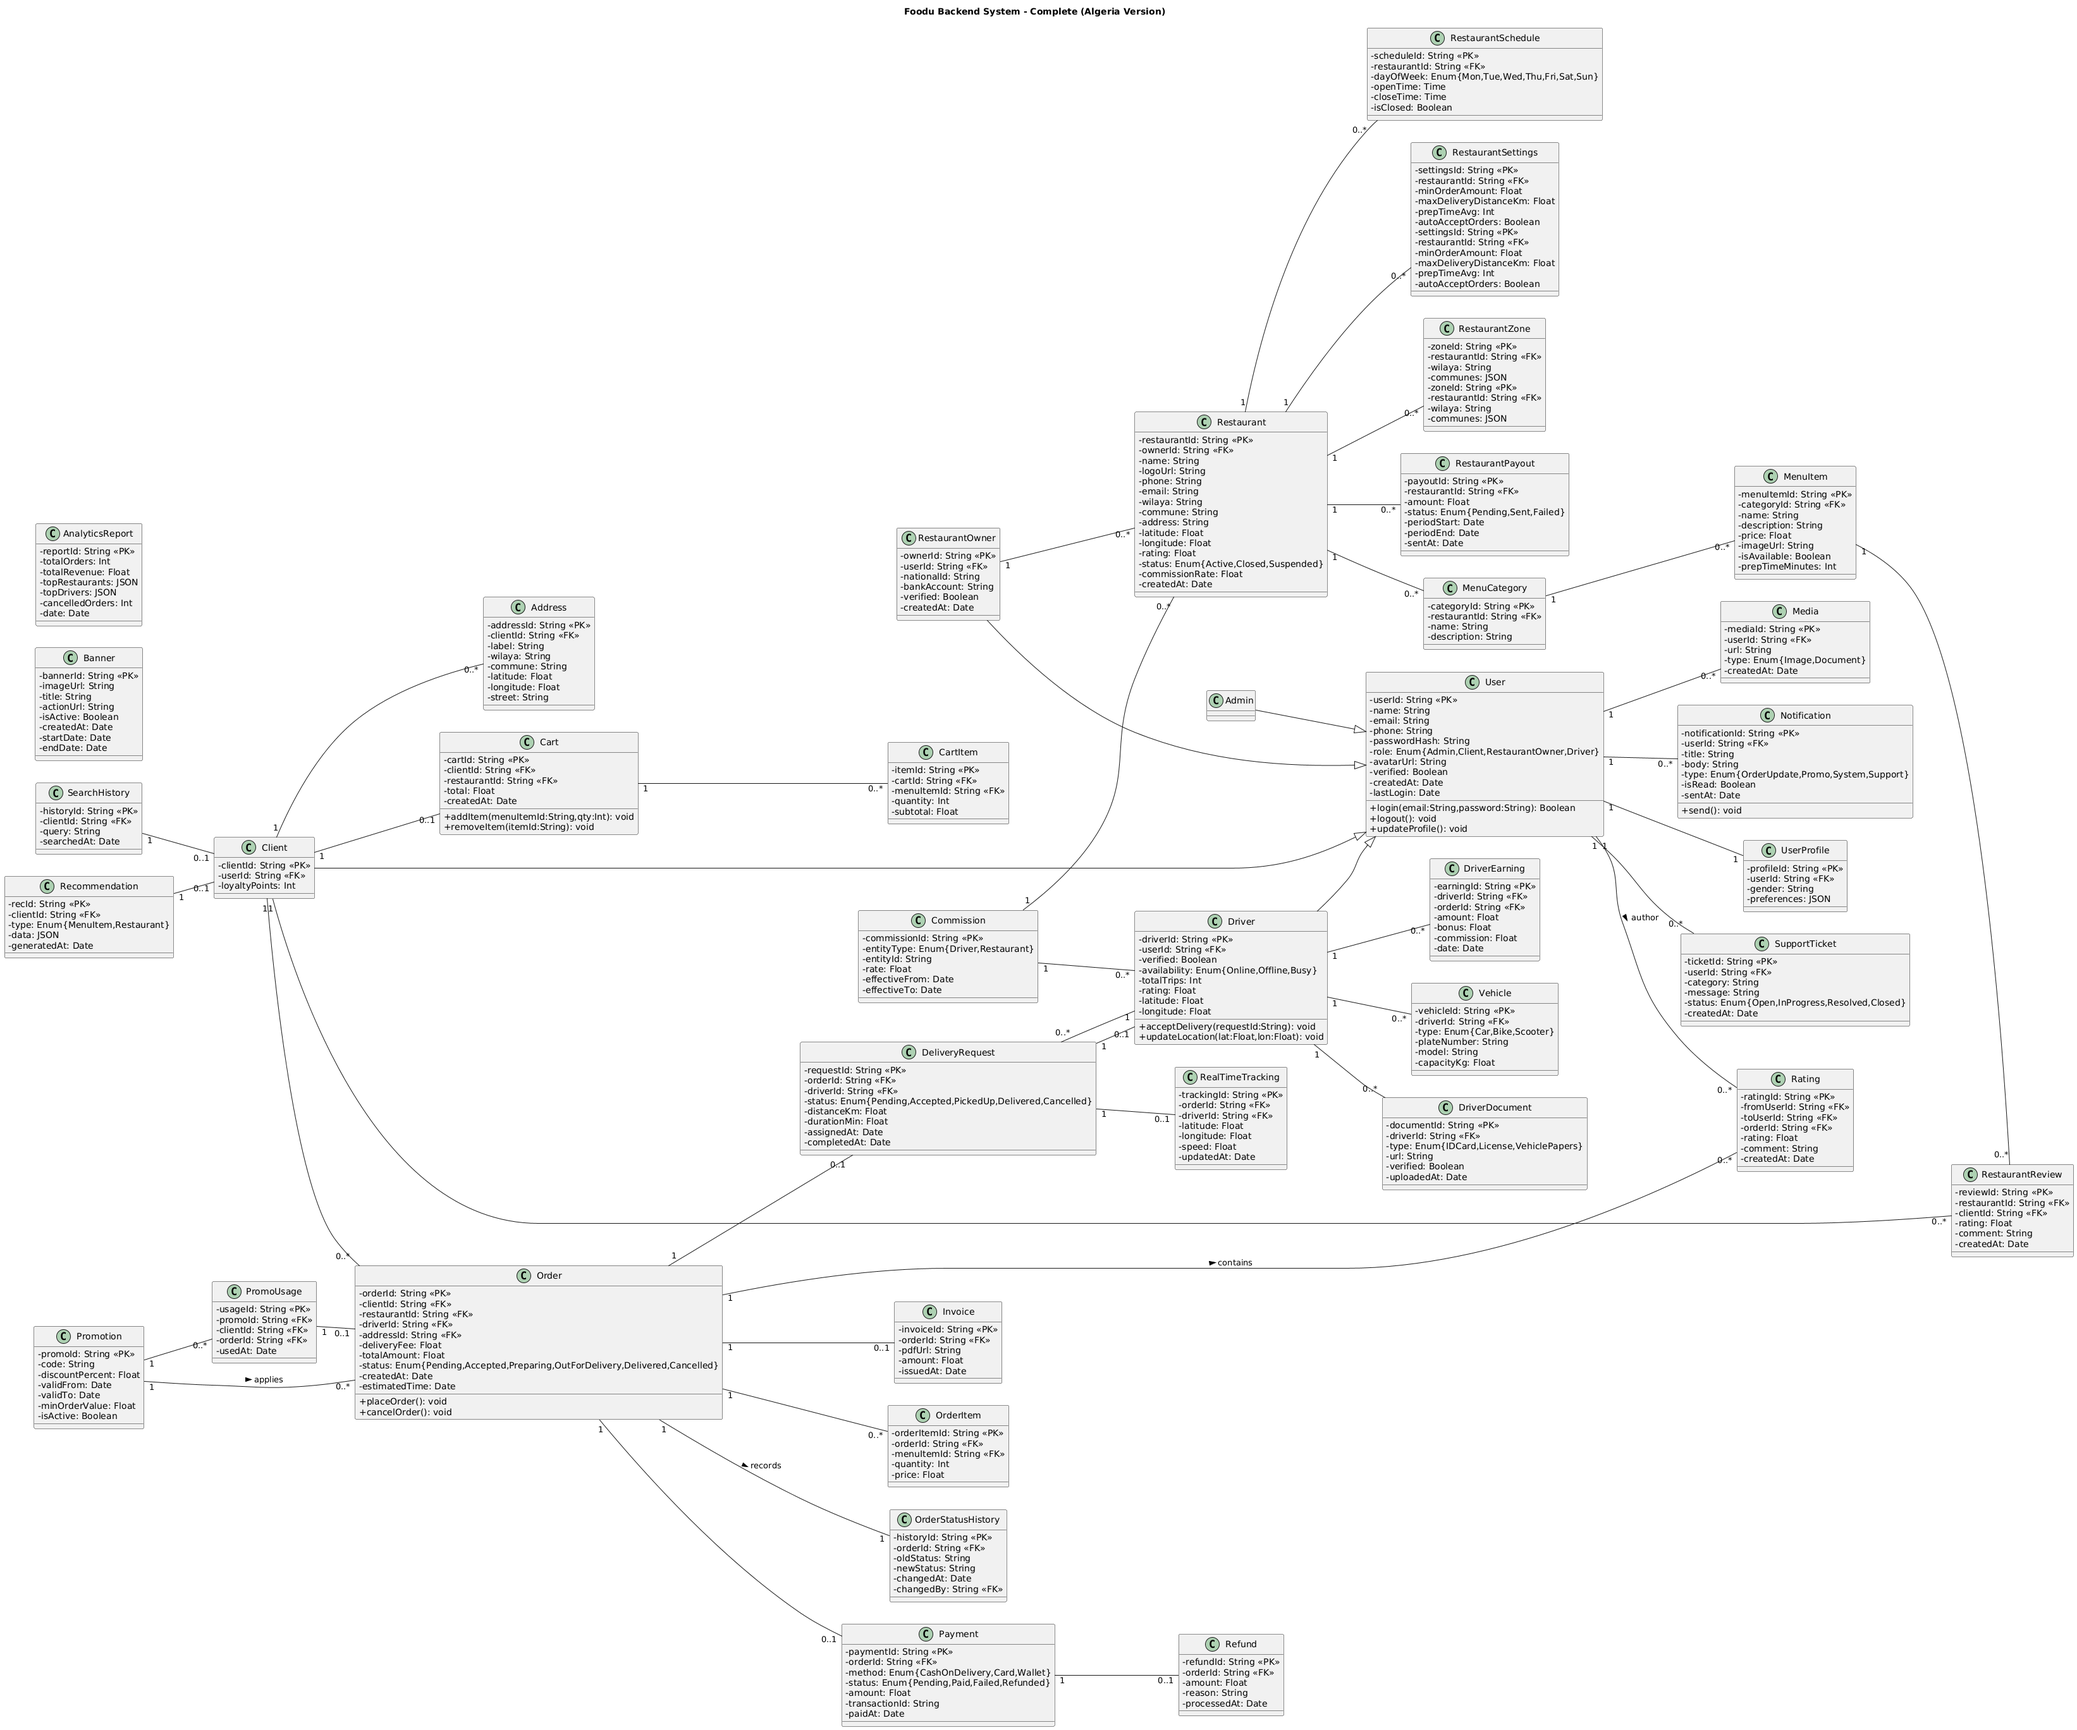
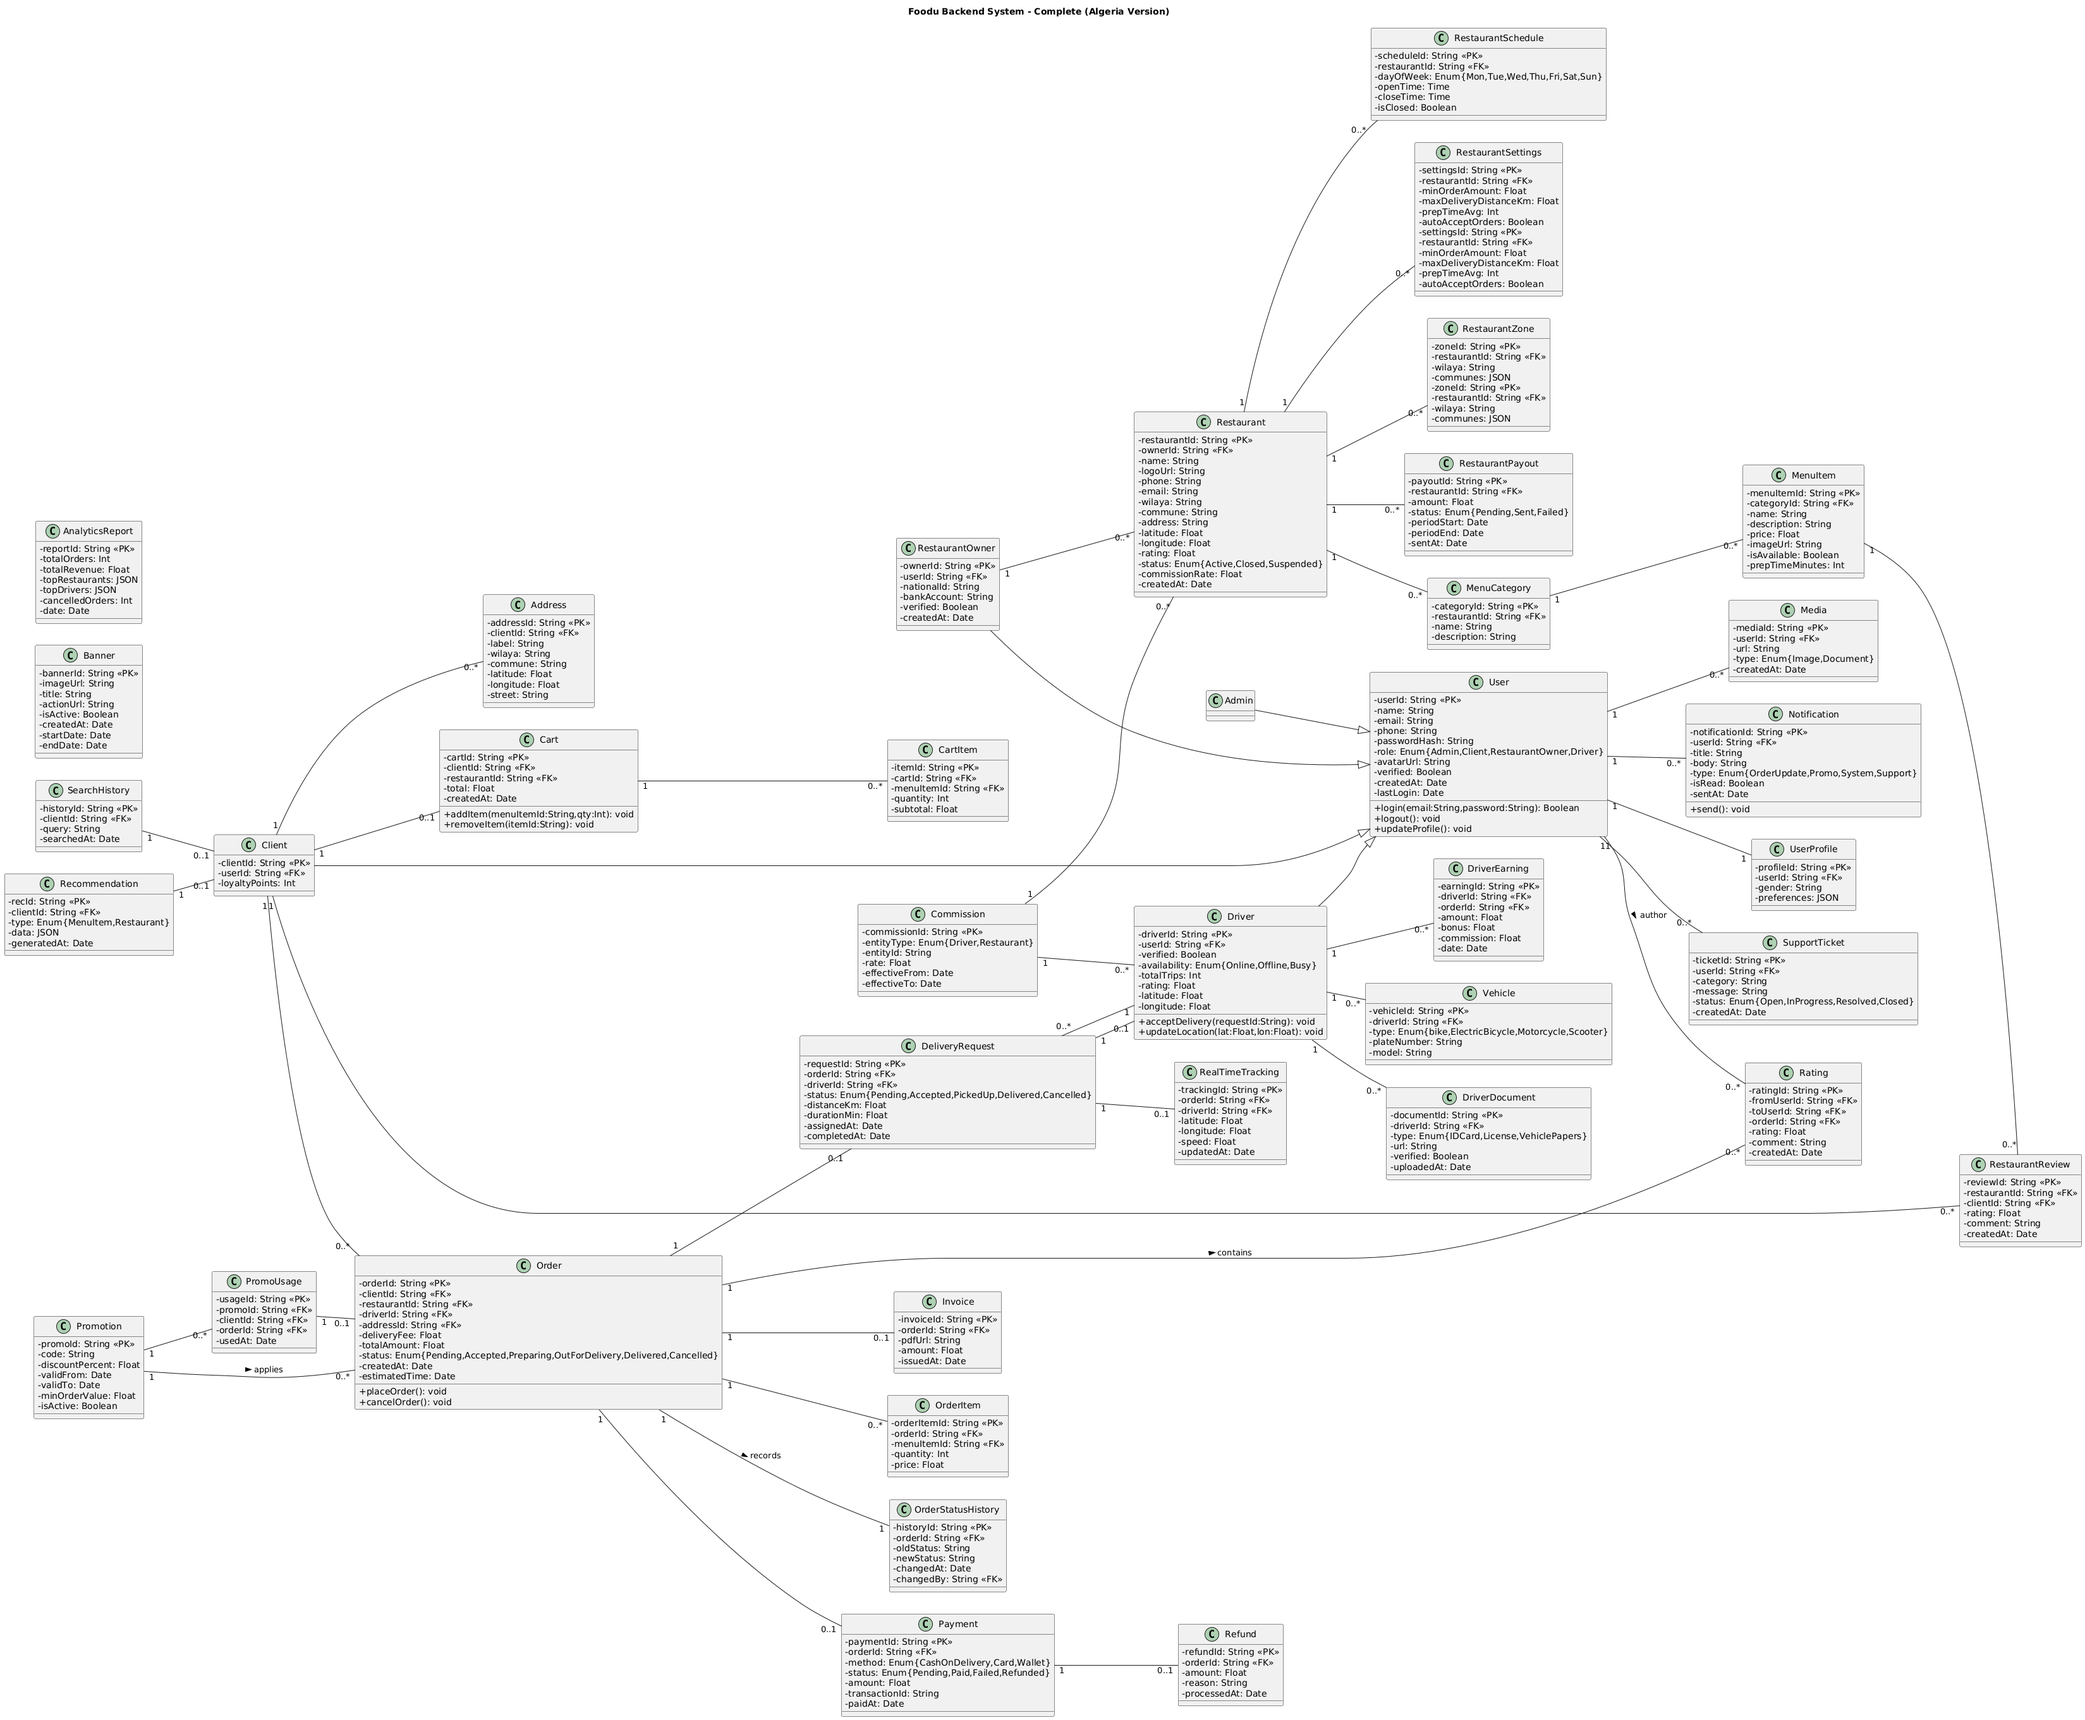
Add Vehicle module: migration, model, controller, route, and validator; update docs and factory handler

diff --git a/utils/validator/vehicle_validator.js b/utils/validator/vehicle_validator.js
@@ -1,0 +1,133 @@
+const { check } = require("express-validator");
+const db = require("../../config/db");
+const ErrorAPI = require("../../utils/ErrorAppi");
+const { runValidation } = require("../../middlewares/validatorMiddleware");
+
+exports.createVehicleValidator = [
+  check("plateNumber")
+    .notEmpty()
+    .withMessage("plateNumber is required")
+    .isLength({ min: 2, max: 20 })
+    .withMessage("plateNumber must be between 2 and 20 characters")
+    .bail()
+    .custom(async (value) => {
+      const existing = await db("vehicle")
+        .where({ plateNumber: value })
+        .first();
+      if (existing)
+        throw new ErrorAPI("Vehicle with this plateNumber already exists", 400);
+    }),
+
+  check("model")
+    .notEmpty()
+    .withMessage("model is required")
+    .isLength({ min: 2, max: 50 })
+    .withMessage("model must be between 2 and 50 characters"),
+
+  check("driverId")
+    .notEmpty()
+    .withMessage("driverId is required")
+    .isInt({ gt: 0 })
+    .withMessage("driverId must be a positive integer")
+    .bail()
+    .custom(async (value) => {
+      const driver = await db("driver").where({ id: value }).first();
+      if (!driver) throw new ErrorAPI("Driver does not exist", 404);
+
+      const existingVehicle = await db("vehicle")
+        .where({ driverId: value })
+        .first();
+      if (existingVehicle)
+        throw new ErrorAPI("Driver already has a vehicle", 400);
+    }),
+
+  check("type")
+    .optional()
+    .isIn(["bike", "ElectricBicycle", "Motorcycle", "Scooter"])
+    .withMessage(
+      "type must be one of bike, ElectricBicycle, Motorcycle, Scooter"
+    ),
+
+  runValidation,
+];
+
+exports.updateVehicleValidator = [
+  check("id")
+    .notEmpty()
+    .withMessage("Vehicle ID is required")
+    .isInt({ gt: 0 })
+    .withMessage("Vehicle ID must be a positive integer")
+    .bail()
+    .custom(async (value) => {
+      const vehicle = await db("vehicle").where({ id: value }).first();
+      if (!vehicle) throw new ErrorAPI("Vehicle not found", 404);
+    }),
+
+  check("plateNumber")
+    .optional()
+    .isLength({ min: 2, max: 20 })
+    .withMessage("plateNumber must be between 2 and 20 characters")
+    .bail()
+    .custom(async (value, { req }) => {
+      const existing = await db("vehicle")
+        .where({ plateNumber: value })
+        .andWhereNot("id", req.params.id)
+        .first();
+      if (existing)
+        throw new ErrorAPI("Vehicle with this plateNumber already exists", 400);
+    }),
+
+  check("model")
+    .optional()
+    .isLength({ min: 2, max: 50 })
+    .withMessage("model must be between 2 and 50 characters"),
+
+  check("driverId")
+    .optional()
+    .isInt({ gt: 0 })
+    .withMessage("driverId must be a positive integer")
+    .bail()
+    .custom(async (value, { req }) => {
+      const driver = await db("driver").where({ id: value }).first();
+      if (!driver) throw new ErrorAPI("Driver does not exist", 404);
+
+      const existingVehicle = await db("vehicle")
+        .where({ driverId: value })
+        .andWhereNot("id", req.params.id)
+        .first();
+      if (existingVehicle)
+        throw new ErrorAPI("Driver already has a vehicle", 400);
+    }),
+
+  check("type")
+    .optional()
+    .isIn(["bike", "ElectricBicycle", "Motorcycle", "Scooter"])
+    .withMessage(
+      "type must be one of bike, ElectricBicycle, Motorcycle, Scooter"
+    ),
+
+  runValidation,
+];
+
+exports.deleteVehicleValidator = [
+  check("id")
+    .notEmpty()
+    .withMessage("Vehicle ID is required")
+    .isInt({ gt: 0 })
+    .withMessage("Vehicle ID must be a positive integer")
+    .bail()
+    .custom(async (value) => {
+      const vehicle = await db("vehicle").where({ id: value }).first();
+      if (!vehicle) throw new ErrorAPI("Vehicle not found", 404);
+    }),
+  runValidation,
+];
+
+exports.getVehicleByIdValidator = [
+  check("id")
+    .notEmpty()
+    .withMessage("Vehicle ID is required")
+    .isInt({ gt: 0 })
+    .withMessage("Vehicle ID must be a positive integer"),
+  runValidation,
+];

diff --git a/routes/vehicle_route.js b/routes/vehicle_route.js
@@ -1,0 +1,27 @@
+const express = require("express");
+const router = express.Router();
+const {
+  createVehicle,
+  deleteVehicle,
+  updateVehicle,
+  getAllVehicles,
+  getVehicleById,
+} = require("../controllers/vehicle_controller");
+const {
+  createVehicleValidator,
+  deleteVehicleValidator,
+  updateVehicleValidator,
+  getVehicleByIdValidator,
+} = require("../utils/validator/vehicle_validator");
+
+router
+  .route("/")
+  .post(createVehicleValidator, createVehicle)
+  .get(getAllVehicles);
+router
+  .route("/id/:id")
+  .get(getVehicleByIdValidator, getVehicleById)
+  .put(updateVehicleValidator, updateVehicle)
+  .delete(deleteVehicleValidator, deleteVehicle);
+
+module.exports = router;

diff --git a/config/migrations/20251122133034_vehicle.js b/config/migrations/20251122133034_vehicle.js
@@ -1,0 +1,21 @@
+exports.up = function (knex) {
+  return knex.schema.createTable("vehicle", function (table) {
+    table.increments("id").unsigned().primary();
+    table.string("plateNumber").notNullable();
+    table.string("model").notNullable();
+    table.integer("driverId").unsigned().notNullable();
+    table
+      .enum("type", ["bike", "ElectricBicycle", "Motorcycle", "Scooter"])
+      .defaultTo("bike");
+
+    table
+      .foreign("driverId")
+      .references("id")
+      .inTable("driver")
+      .onDelete("CASCADE");
+  });
+};
+
+exports.down = function (knex) {
+  return knex.schema.dropTableIfExists("vehicle");
+};

diff --git a/controllers/vehicle_controller.js b/controllers/vehicle_controller.js
@@ -1,0 +1,22 @@
+const vehicleModel = require("../models/vehicle_model");
+const {
+  createOne,
+  deleteOne,
+  updateOne,
+  getOne,
+  getAll,
+} = require("./factory_handler");
+
+const createVehicle = createOne(vehicleModel, "Vehicle");
+const deleteVehicle = deleteOne(vehicleModel, "Vehicle");
+const updateVehicle = updateOne(vehicleModel, "Vehicle");
+const getVehicleById = getOne(vehicleModel, "Vehicle");
+const getAllVehicles = getAll(vehicleModel, "Vehicle");
+
+module.exports = {
+  createVehicle,
+  deleteVehicle,
+  updateVehicle,
+  getVehicleById,
+  getAllVehicles,
+};

diff --git a/controllers/factory_handler.js b/controllers/factory_handler.js
@@ -36,6 +36,9 @@ exports.getAll = (model, modelName) => {
 exports.getOne = (model, modelName, idParam = "id") => {
   return asyncHandler(async (req, res, next) => {
     const result = await model.getById(req.params[idParam]);
+    if (!result) {
+      throw new ErrorAPI(`No ${modelName} found`, 404);
+    }
     res.status(200).json({
       status: "success",
       data: result,

diff --git a/routes/mount_router.js b/routes/mount_router.js
@@ -5,6 +5,7 @@ const mountRoutes = (app) => {
   app.use("/api/v1/searchHistory", require("./searchHistory_route"));
   app.use("/api/v1/banner", require("./banner_route"));
   app.use("/api/v1/driver", require("./driver_router"));
+  app.use("/api/v1/vehicle", require("./vehicle_route"));
 };
 
 module.exports = mountRoutes;

diff --git a/models/vehicle_model.js b/models/vehicle_model.js
@@ -1,0 +1,9 @@
+const BaseModel = require("./base_model");
+
+class vehicleModel extends BaseModel {
+  constructor() {
+    super("vehicle");
+  }
+}
+
+module.exports = new vehicleModel();

diff --git a/models/address_model.js b/models/address_model.js
@@ -2,7 +2,7 @@ const BaseModel = require("./base_model");
 
 class AddressModel extends BaseModel {
   constructor() {
-    super("address"); // table name
+    super("address");
   }
 }
 
